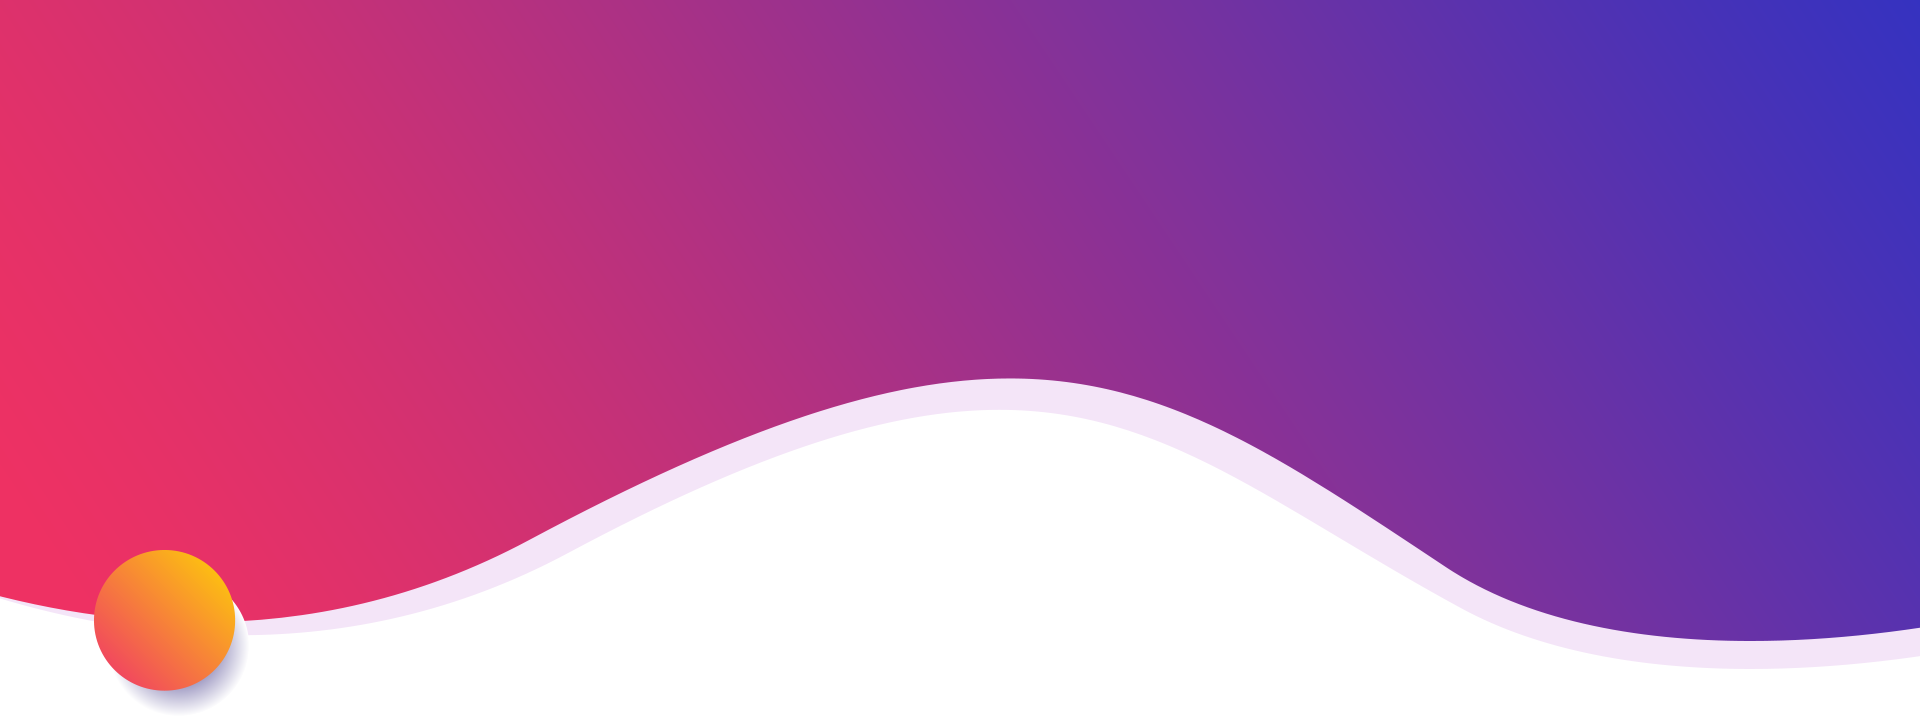
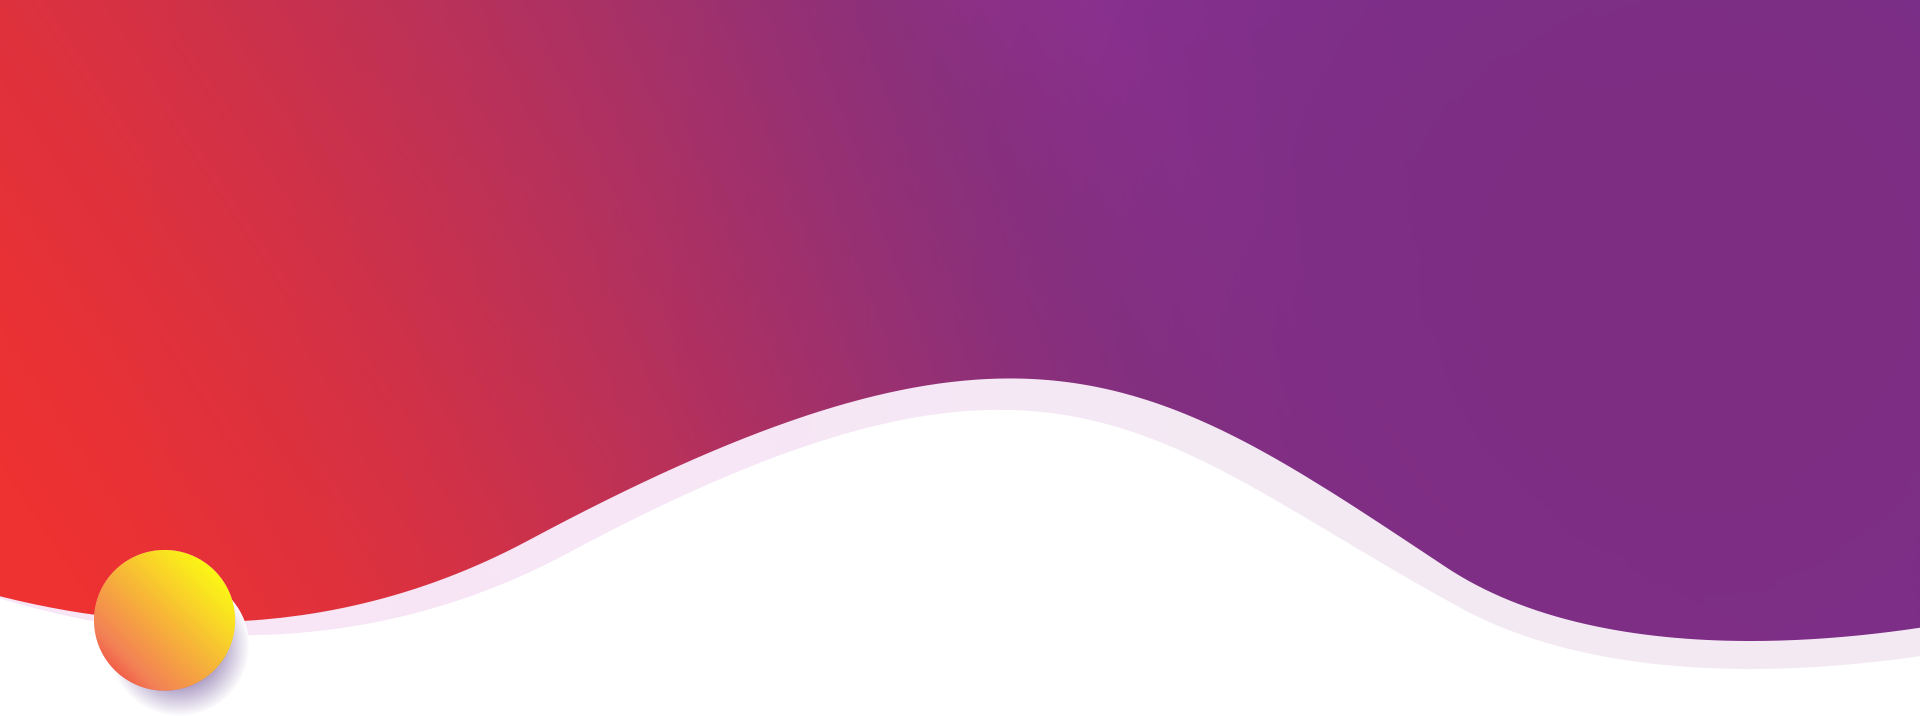
new

diff --git a/index.html b/index.html
@@ -45,7 +45,7 @@
                     <div class="header-inner d-lg-flex align-items-center">
 
                         <div class="logo-outer d-flex align-items-center">
-                            <div class="logo"><a href="index.html"><img src="assets/images/logo.png" alt="Logo" width="160px"></a></div>
+                            <div class="logo"><a href="#home"><img src="assets/images/logo.png" alt="Logo" width="160px"></a></div>
                         </div>
 
                         <div class="nav-outer clearfix ml-lg-auto">
@@ -63,8 +63,8 @@
                                 <div class="navbar-collapse collapse clearfix">
                                     <ul class="navigation clearfix">
                                         <li><a class="nav-link active-link " href="#home" data-scroll="home">Home</a></li>
-                                        <li><a class="nav-link" href="#service" data-scroll="service">Who we Are</a></li>
-                                        <li><a class="nav-link" href="#about" data-scroll="about">
+                                        <li><a class="nav-link" href="#about" data-scroll="about">Who we Are</a></li>
+                                        <li><a class="nav-link" href="#service" data-scroll="service">
                                             What we do</a></li>
                                         <li><a class="nav-link" href="#contact" data-scroll="contact">Contact</a></li>
                                     </ul>
@@ -168,7 +168,7 @@
                         <div class="col-lg-6 col-md-8">
                             <div class="section-heading text-center mb-80 rmb-40">
                                 <span class="heading-title">What we do</span>
-                                <h2>Xshapp Providing You Best Features</h2>
+                                <h2>Shipway offers shipping services to meet your needs</h2>
                             </div>
                         </div>
                     </div>
@@ -176,10 +176,10 @@
                         <div class="col-lg-4 p-0">
                             <div class="service-item">
                                 <div class="service-icon">
-                                    <img src="assets/images/service/icon1.png" alt="Service Icon">
+                                    <img src="assets/images/service/icon-1.png" alt="Service Icon">
                                 </div>
                                 <div class="service-content">
-                                    <h5>Get a Free App Trial</h5>
+                                    <h5 class="text-center">Recieve</h5>
                                     <p>Lorem ipsum dolor sit amet, consectetur adipiscing elit, sed do eiusmod tempor incididunt ut labore et dolore magna aliqua. Quis ipsum suspendisse ultrices gravida. Risus viverra accumsan lacus vel facilisis.</p>
                                 </div>
                             </div>
@@ -190,7 +190,7 @@
                                     <img src="assets/images/service/icon2.png" alt="Service Icon">
                                 </div>
                                 <div class="service-content">
-                                    <h5>Easy to Edit</h5>
+                                    <h5 class="text-center">Shipping</h5>
                                     <p>Lorem ipsum dolor sit amet, consectetur adipiscing elit, sed do eiusmod tempor incididunt ut labore et dolore magna aliqua. Quis ipsum suspendisse ultrices gravida. Risus viverra accumsan lacus vel facilisis.</p>
                                 </div>
                             </div>
@@ -201,7 +201,7 @@
                                     <img src="assets/images/service/icon3.png" alt="Service Icon">
                                 </div>
                                 <div class="service-content">
-                                    <h5>Life time use & upate</h5>
+                                    <h5 class="text-center">Deliver</h5>
                                     <p>Lorem ipsum dolor sit amet, consectetur adipiscing elit, sed do eiusmod tempor incididunt ut labore et dolore magna aliqua. Quis ipsum suspendisse ultrices gravida. Risus viverra accumsan lacus vel facilisis.</p>
                                 </div>
                             </div>
@@ -312,12 +312,12 @@
                <div class="container">
                     <div class="copyright-inner">
                         <div class="copyright-wrap order-2 order-md-1">
-                            <p>&copy; Copyright 2021 bt Xshapp</p>
+                            <p>&copy; Copyright 2021 Shipway</p>
                         </div>
                         <!-- footer menu -->
                         <ul class="footer-menu order-1 order-md-2">
-                            <li><a href="#"><i class="fab fa-facebook"></i></a></li>
-                            <li><a href="#"><i class="fab fa-instagram"></i></a></li>
+                            <li><a href="https://www.facebook.com/Shipway.delivery/" target="blank" class="text-white"> <i class="fab fa-facebook fa-2x"></i></a></li>
+                            <li><a href="https://www.instagram.com/shipway.delivery/" target="blank" class="text-white"><i class="fab fa-instagram fa-2x"></i></a></li>
                         </ul>
                     </div>
                 </div>

diff --git a/assets/css/style.css b/assets/css/style.css
@@ -273,7 +273,7 @@ button:focus {
 	height: 100vh;
 	padding-top: 180px;
 	position: relative;
-	background: url(../images/hero/hero-bg.png);
+	background: url(../images/banner.png);
 	background-position: inherit;
 	background-size: cover;
 }
@@ -662,7 +662,7 @@ button:focus {
 
 .service-item.service-active {
 	margin-top: -30px;
-	background: transparent linear-gradient(240deg, #1d32cc 0%, #ee3163 100%) 0% 0% no-repeat padding-box;
+	background: transparent linear-gradient(45deg, #7d2e84 0%, #ec3132 100%) 0% 0% no-repeat padding-box;
 }
 
 .service-item.service-active .service-content h5,
@@ -814,7 +814,7 @@ button:focus {
 /****************************************************** */
 .discover-tools-section {
 	position: relative;
-	background: url(../images/tools/discover-tools-bg.png);
+	background: url(../images/discover-tools-bg.png);
 	background-position: center;
 	background-size: cover;
 	z-index: 1;

diff --git a/assets/css/menu.css b/assets/css/menu.css
@@ -25,7 +25,7 @@
 	-webkit-transition: all 500ms ease;
 	transition: all 500ms ease;
 	box-shadow: 0px 0px 30px 0px rgba(87, 95, 245, .10);
-	background: transparent linear-gradient(240deg, #1d32cc 0%, #ee3163 100%) 0% 0% no-repeat padding-box;
+	background: transparent linear-gradient(240deg, #7d2e84 0%, #ec3132 100%) 0% 0% no-repeat padding-box;
 }
 
 .main-header.fixed-header:before {
@@ -176,6 +176,7 @@
 	color: #9202b7;
 	font-weight: 500;
 	padding: 12px 37px;
+	font-weight: bold;
 }
 
 .menu-btn .theme-btn:before {
